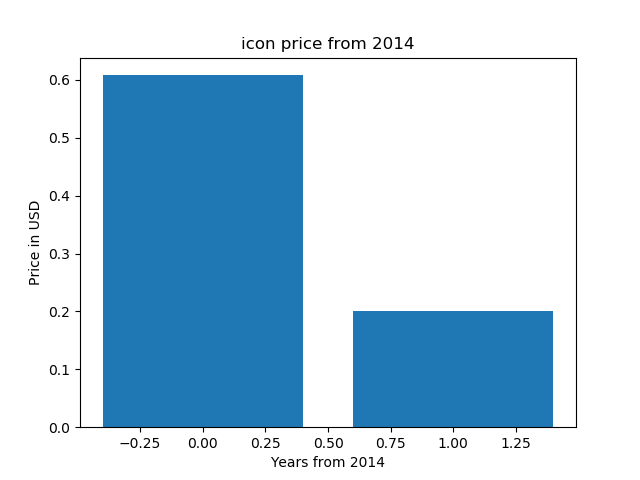
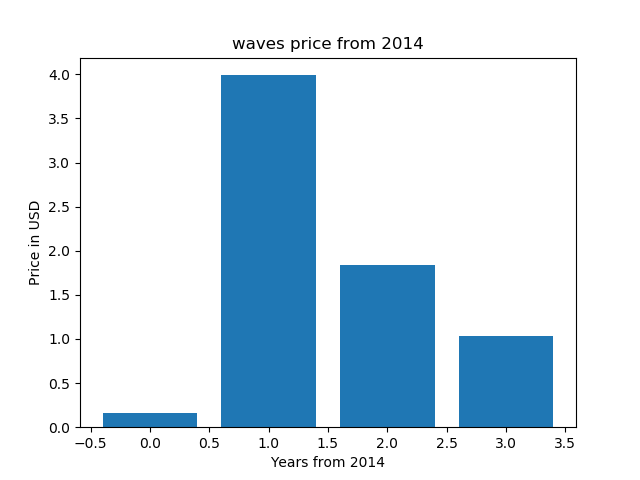
first commit

diff --git a/example.py b/example.py
@@ -10,7 +10,7 @@ from time import gmtime, strftime
 import matplotlib.pyplot as plt
 
 enddate = strftime("%Y%m%d", gmtime())
-r  = requests.get("https://coinmarketcap.com/currencies/icon/historical-data/?start=20140101&end={0}".format(enddate))
+r  = requests.get("https://coinmarketcap.com/currencies/waves/historical-data/?start=20140101&end={0}".format(enddate))
 data = r.text
 
 soup = BeautifulSoup(data, "html.parser")
@@ -44,7 +44,7 @@ print(x)
 
 x = list(range(0, len(prices)))
 
-plt.title('icon price from 2014')
+plt.title('waves price from 2014')
 plt.ylabel('Price in USD')
 plt.xlabel('Years from 2014')
 plt.bar(x, prices)

diff --git a/README.md b/README.md
@@ -1,6 +1,6 @@
-# icon price chart 
+# waves price chart 
 
-icon price chart (matplotlib, python)
+waves price chart (matplotlib, python)
 
 https://pythonprogramminglanguage.com
 
